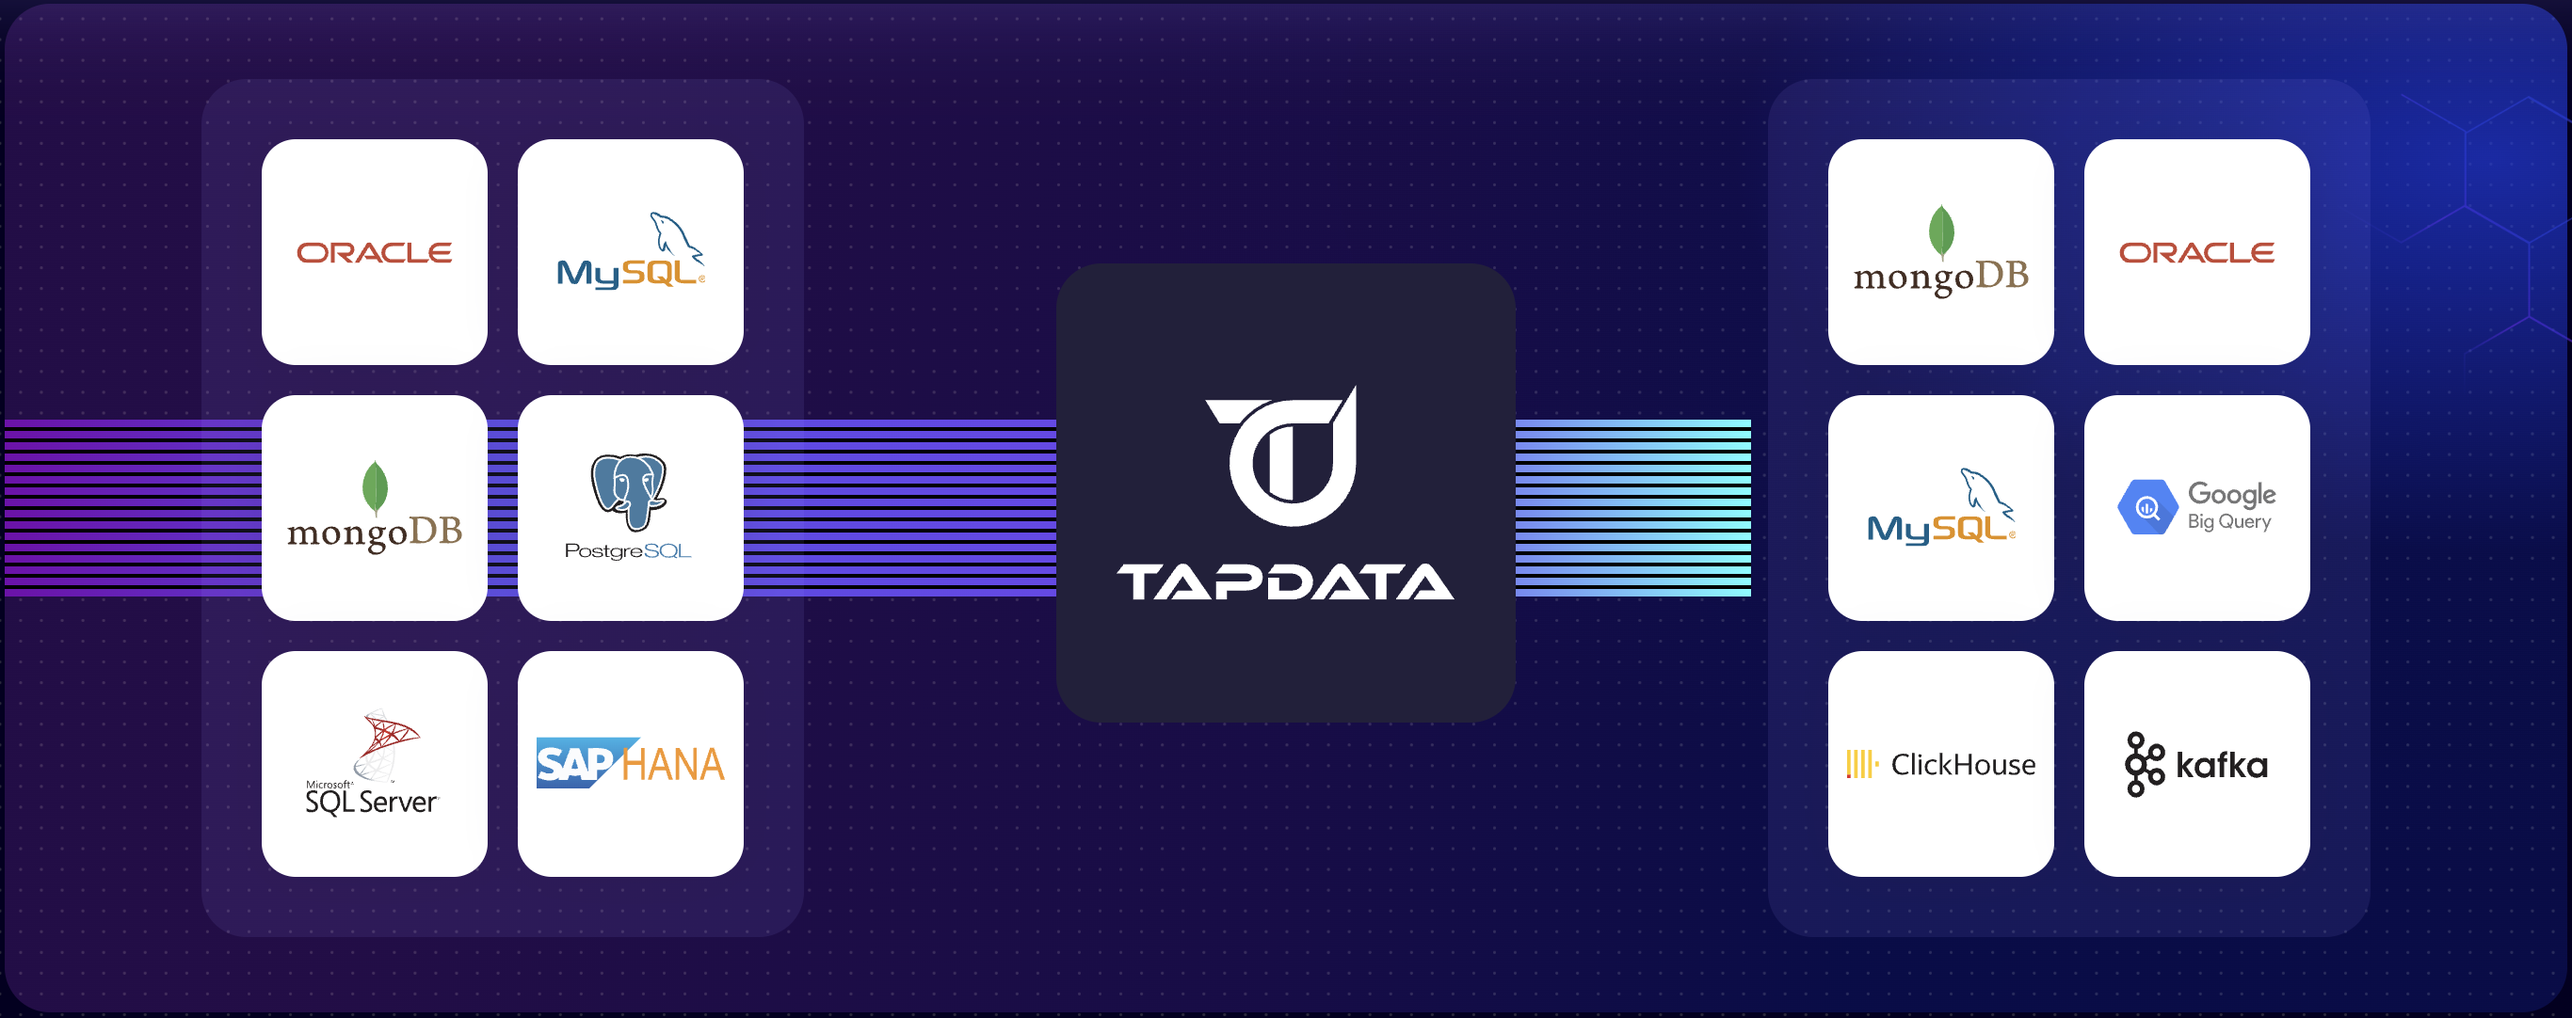
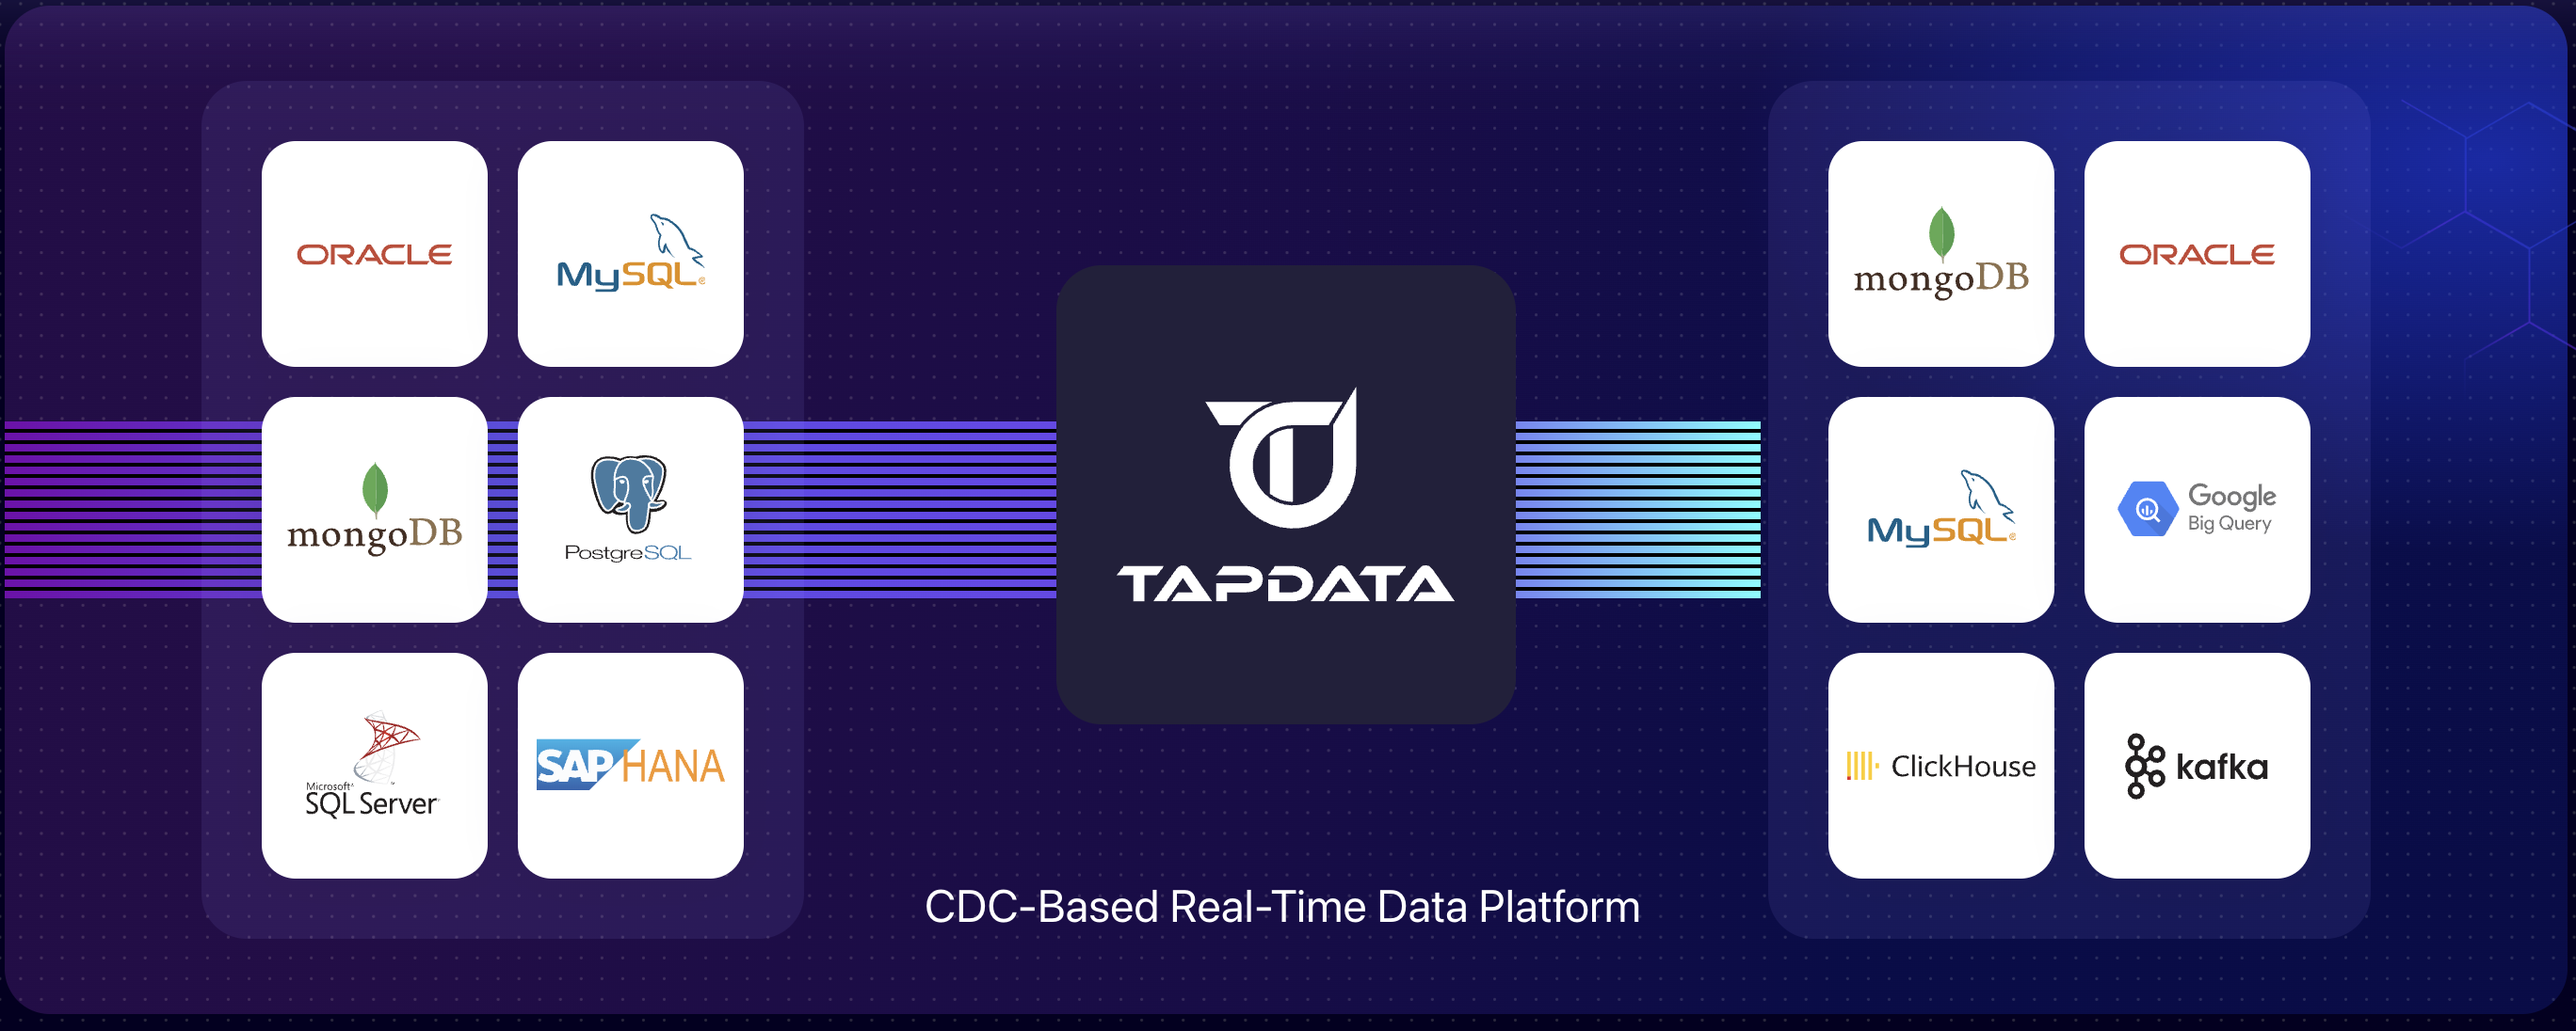
f: img

diff --git a/README.md b/README.md
@@ -19,24 +19,38 @@
 
 
 ## What is Tapdata ?
-Tapdata is a real-time data integration platform that enables data to be synchronized in real-time among various systems such as databases, SaaS services, applications, and files.
+Tapdata is a CDC-based, Real-Time data integration platform that enables data to be synchronized in real-time among various systems such as databases, SaaS services, applications, and files.
 The synchronization tasks can be easily built through drag-and-drop operations, from table creation to full and incremental synchronization, all processes are fully automated.
 
-1. [Key Features](https://docs.tapdata.io/cloud/introduction/features)
-2. [Supported Connectors](https://docs.tapdata.io/cloud/introduction/supported-databases)
+1. [Supported Connectors](https://docs.tapdata.io/cloud/introduction/supported-databases)
+2. [FAQ](https://docs.tapdata.io/faq/)
 
 For more details, please read [docs](https://docs.tapdata.io/)
+
+## Key Features
+1. Perform real-time full and incremental data synchronization between different databases, with automatic table creation, and automatic switching between full and incremental synchronization.
+2. Operate through a visual interface, allowing task construction via drag-and-drop, without the need for in-depth database knowledge.
+3. Monitor synchronization performance, task progress, key events, and logs with comprehensive visual process monitoring.
+4. Support common open-source and proprietary databases, and accommodate various data warehouses as targets.
+5. Support MongoDB as the target, enabling the construction of complex data models with unified batch and stream processing.
+
+## Primary Use Cases
+1. Synchronize data from traditional RDBMS to modern databases such as MongoDB, Elasticsearch (ES), or Redis to support new business uses.
+2. Consolidate data from various databases into a unified data warehouse.
+3. Stream database changes to Kafka.
+4. Perform data synchronization between heterogeneous databases.
+5. Use MongoDB to build your unified data hub.
  
 ## Quick Start
+### Start with local docker
+RUN `docker run -d -p 3030:3030 github.com/tapdata/tapdata-opensource:latest`, wait for 3 minutes, then you can get it from http://localhost:3030/
+
+default username is: admin@admin.com, default password is admin
+
 ### Start with cloud service
 Tapdata service is available in cloud service, you can use fully-managed service, or deploy engine to your private network
 
 Try on https://cloud.tapdata.io/, support google and github account login, free trial, NO credit card needed, start your real-time data journey immediately.
-
-### Start with local deploy
-RUN `docker run -d -p 3030:3030 github.com/tapdata/tapdata-opensource:latest`, wait for 3 minutes, then you can get it from http://localhost:3030/
-
-default username is: admin@admin.com, default password is admin
 
 ## Examples
 <details>
